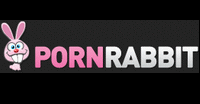
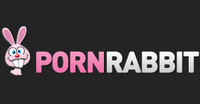
[VideoDevil] - updated: extremetube, redtube, fucktube and boysfood - changed: pornrabbit thumbnail - updated: version to 1.6.0

diff --git a/plugins/video/VideoDevil/default.py b/plugins/video/VideoDevil/default.py
@@ -6,8 +6,8 @@ __plugin__ = 'VideoDevil'
 __author__ = 'sfaxman'
 __url__ = 'http://code.google.com/p/xbmc-addons/'
 __svn_url__ = 'http://xbmc-addons.googlecode.com/svn/trunk/plugins/video/VideoDevil/'
-__credits__ = 'sfaxman'
-__version__ = '1.5a'
+__credits__ = 'bootsy'
+__version__ = '1.6.0'
 
 rootDir = os.getcwd()
 if rootDir[-1] == ';':rootDir = rootDir[0:-1]
